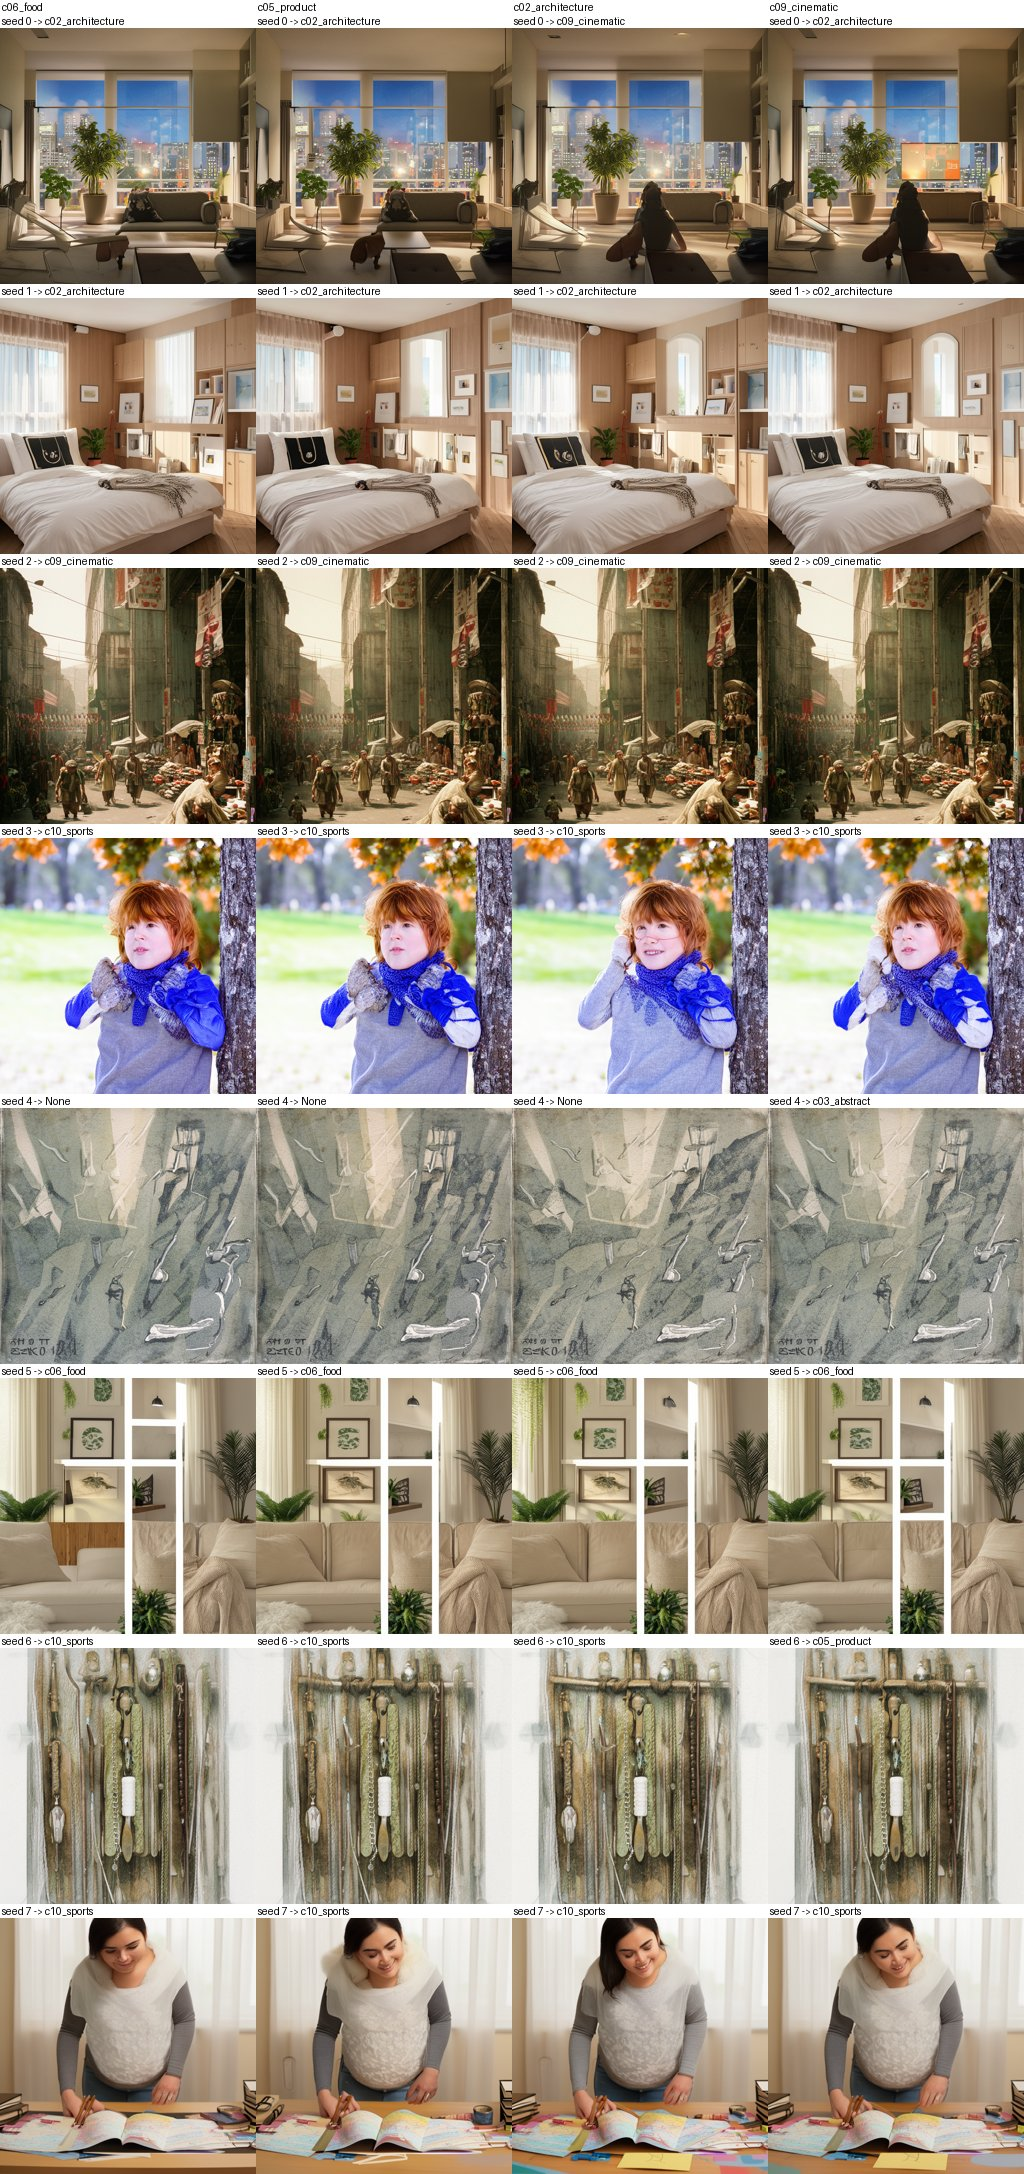
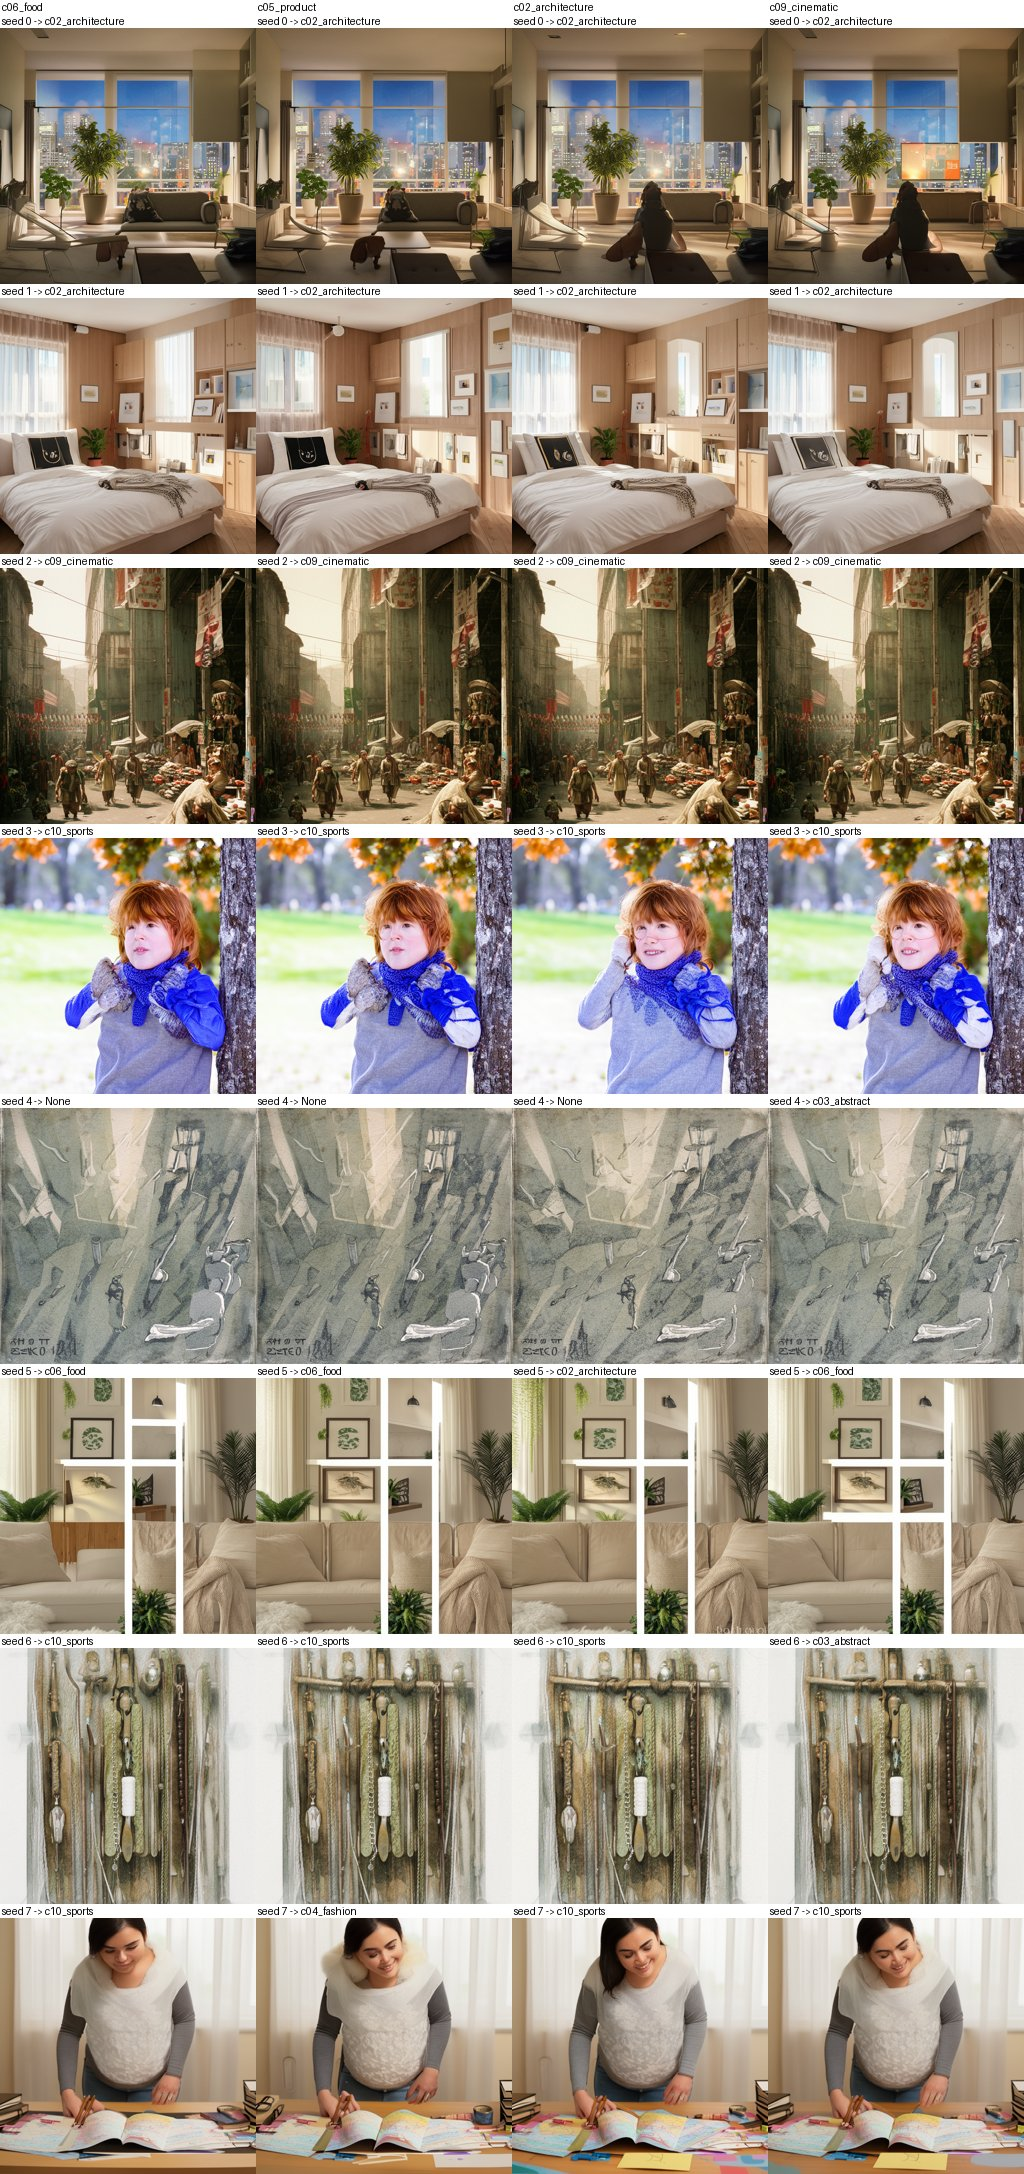
S3 oct14 rerun with TF32 and eval_judge docstring

diff --git a/scripts/eval_judge.py b/scripts/eval_judge.py
@@ -1,7 +1,8 @@
 '''
 Test the persona judge on held-out core images 
 Output: docs/results/S2_judge/.
-Run with: python scripts/eval_judge.py [--personas c03_abstract c06_food ...]'''
+Run with: python scripts/eval_judge.py [--personas c03_abstract c06_food ...]
+'''
 
 import os, argparse, collections
 import numpy as np
